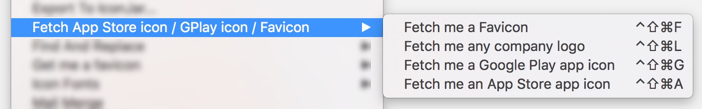
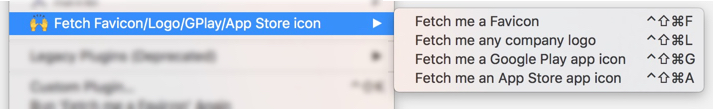
minor update

diff --git a/README.md b/README.md
@@ -1,31 +1,36 @@
 # Sketch Icon Fetcher
-
+### Get the image of any App Store app icon, Google Play app icon, company logo, or a website's Favicon
 
 **UPDATE** (Mar 27 2017): Plugin fixed and now supports Sketch 41+ and added NEW functionality: Get any company logo by Clearbit API
 
+
+###This is how it looks like:
+
 ![image to explain how this looks](https://github.com/sagishrieber/sketch-any-icon-fetcher/blob/master/plugin-screenshot.jpg "The Plugin")
+
+
+###The plugin generates icons based on the company/product name. i.e. waze:
 
 ![image to see example icons](https://github.com/sagishrieber/sketch-any-icon-fetcher/blob/master/examples.jpg "What the plugin generates")
 
-**UPDATE** (Feb 22,2016): Plugin fixed and now supports Sketch 3.5+
 
-**UPDATE** (Oct 18,2015): The plugin now also supports App Store and Google Play icons!
+###It works like this:
 
 ![image to explain how this works](https://github.com/sagishrieber/sketch-any-icon-fetcher/blob/master/demo-appicon.gif "how this works")
 
 ## So..
 Yep! It's a Sketch plugin that will let you insert any website's favicon, and iOS/Android app's icon into your design
 
-The plugin was originally made for our use in the Product Design team at [Similarweb](http://similarweb.com "Similarweb"), and hopefully some of you out there will also find it useful :)  
+The plugin was originally made for use in the Product Design team at [Similarweb](http://similarweb.com "Similarweb"), (I built it for my team when I was running the design team there) and hopefully some of you out there will also find it useful :)  
 
-The plugin uses the Google Favicon API for Favicons, an [import.io API](http://import.io API) for Google Play app icons, and the Apple Search API for App Store app icons.
+The plugin uses the Google Favicon API for Favicons, an [import.io API](http://import.io API) for Google Play app icons & App Store icons, and Clearbit API for company logos.
 
 ## Read how I created this plugin, so you can create your own!
 [http://hackingui.com/design/how-to-create-a-sketch-plugin/](http://hackingui.com/design/how-to-create-a-sketch-plugin/)
 ## How to use:
 1. Install by downloading ([download link](https://github.com/sagishrieber/sketch-get-favicon-by-url/archive/master.zip "download")), unziping, and then double clicking the "get me a favicon.sketchplugin" file.
-2. In Sketch, Create a 16x16px rectangle for favicons, or a bigger icon (can be up to 512x512 in some cases) for App Store/Google Play icons. Make sure the rectangle is selected.
-3. Use the shortcuts of cmd+ctrl+shift+f for Favicon,cmd+ctrl+shift+G for Google Play icons, cmd+ctrl+shift+a for App Store icons. You can also simply choose from the top menu "Plugins --> Fetch that icon for me will you?" and it will do the trick.
+2. In Sketch, Create a 16x16px rectangle for favicons, or a bigger icon (can be up to 512x512 in some cases) for App Store/Google Play icons/Company Logo. Make sure the rectangle is selected.
+3. Use the shortcuts of cmd+ctrl+shift+f for Favicon,cmd+ctrl+shift+l for logo, cmd+ctrl+shift+G for Google Play icons, cmd+ctrl+shift+a for App Store icons. You can also simply choose from the top menu "Plugins --> Fetch that icon for me will you?" and it will do the trick.
 4. Enter any URL for favicons, or app name for Google Play/App Store icons. Voila! Enjoy.
 
 ## If you like this plugin
